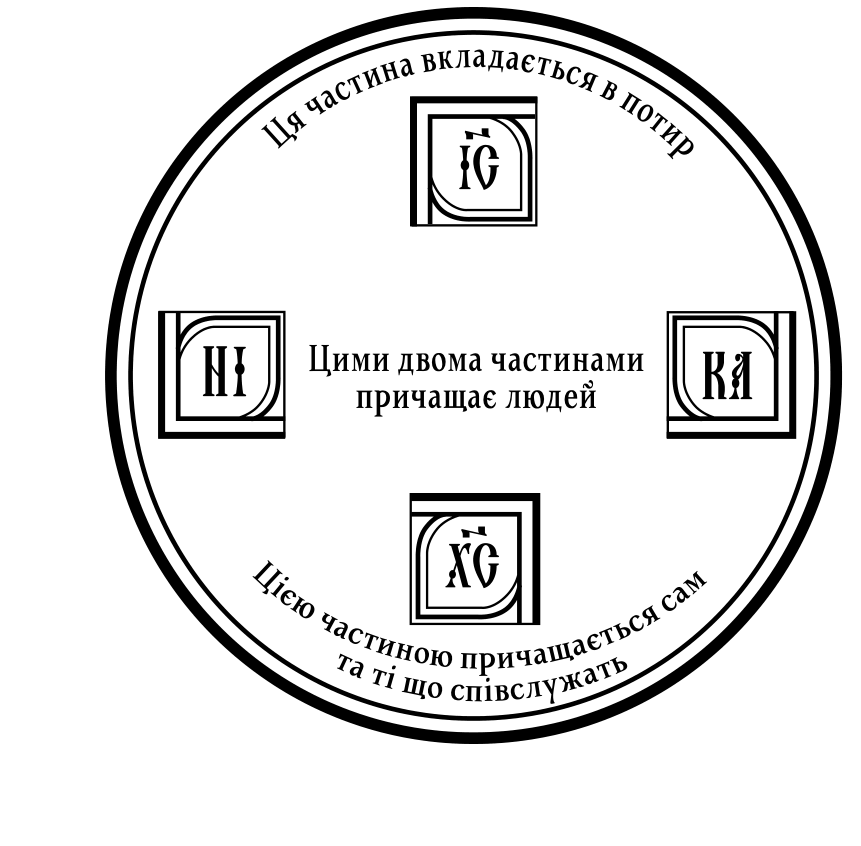
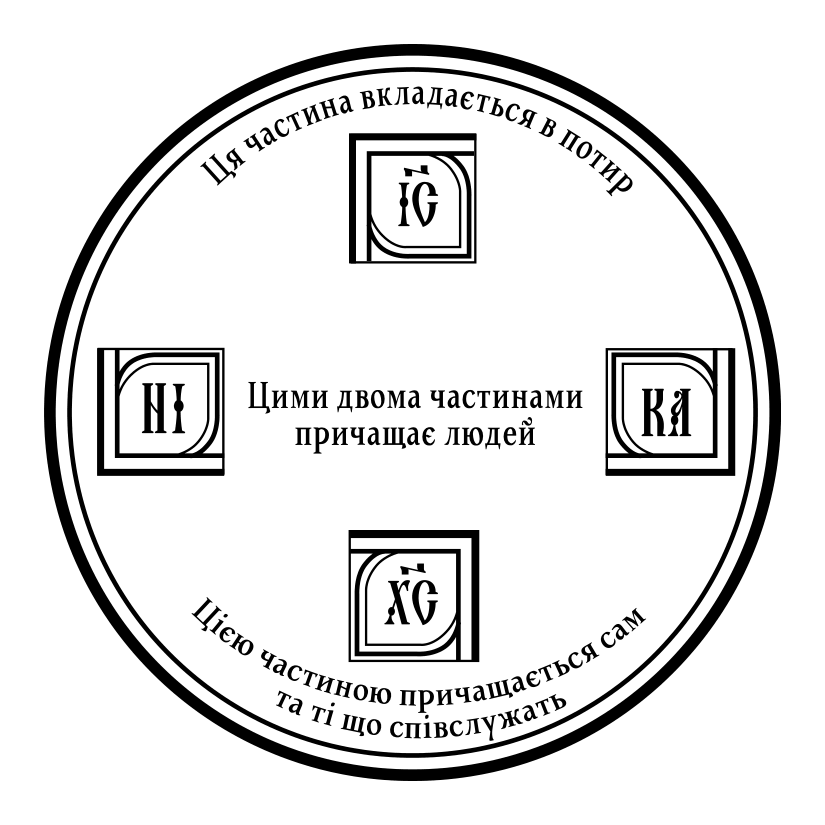
Зображення Агнця: відцентровано (квадратне полотно, рівні поля)
PNG мало вміст зміщений у канвасі (ліве поле 105px проти 19px). Обрізав до
вмісту й розмістив по центру білого квадрата 825×825 — поля з усіх боків рівні.
Антикеш ?v=21.

Changed region(s): [[0.0303, 0.0, 1.0, 0.9697], [0.303, 0.6667, 0.3636, 0.7273]]

diff --git a/index.html b/index.html
@@ -483,7 +483,7 @@
   <div class="status-row"><span class="status" id="status">Натисніть «Почати» і дозвольте доступ до мікрофона.</span><span class="heard" id="heard"></span></div>
 </div>
 
-<script src="liturgy-data.js?v=20"></script>
+<script src="liturgy-data.js?v=21"></script>
 <script>
 
 let recognition = null, isListening = false;